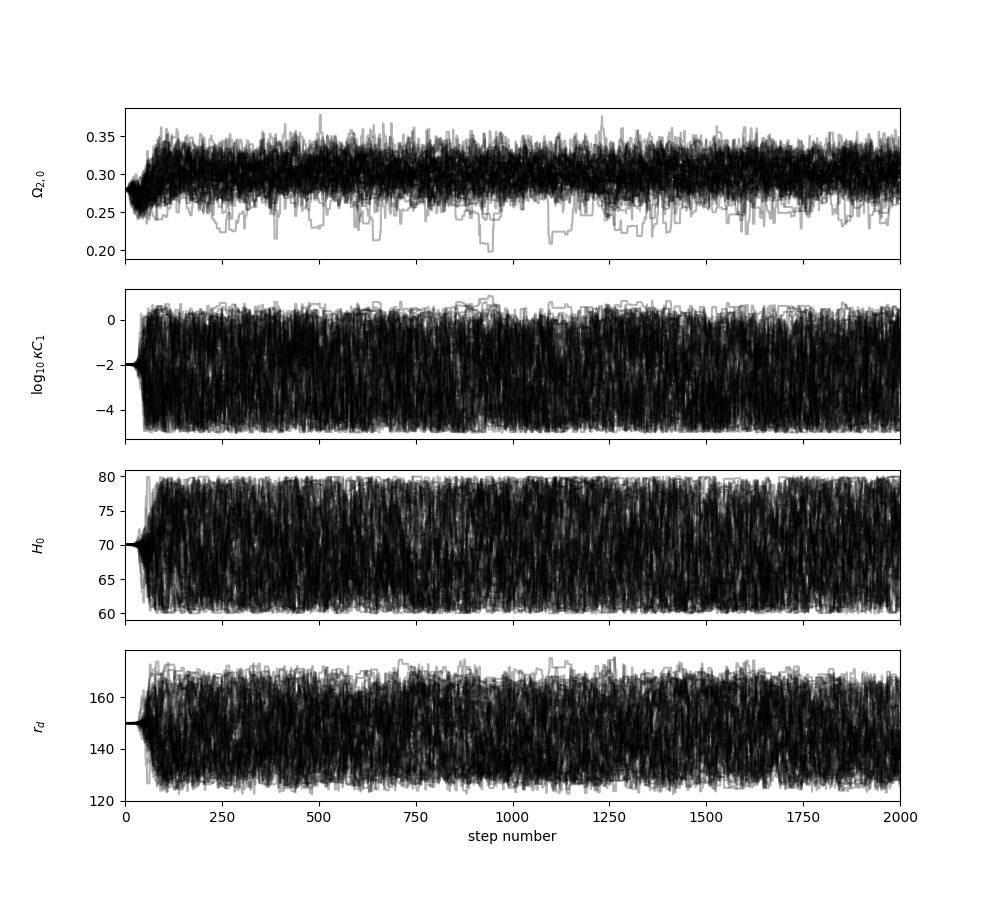
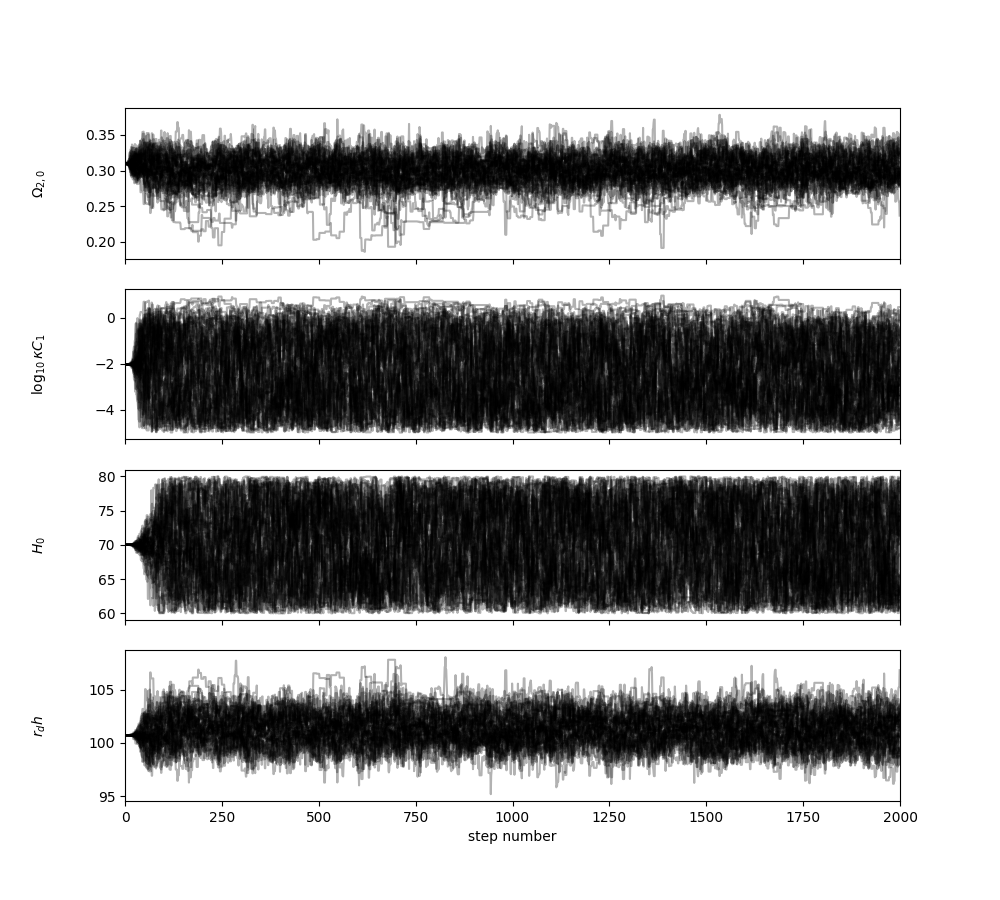
BAO use rdh

diff --git a/BAO/result.py b/BAO/result.py
@@ -14,7 +14,7 @@ const_c = c.to('km/s').value
 H0 = 70.0
 O20 = 0.28
 log_kC1 = -5.0
-rd = 147.78
+rdh = 100
 
 # 从csv文件中读取数据
 file_path = "./BAO/BAO.csv"
@@ -84,7 +84,8 @@ class BAO:
         DH = self.D_H(z)
         return (z * DM ** 2 * DH) ** (1/3)
 
-def chi_square(log_kC1, O20, H0, rd):
+def chi_square(log_kC1, O20, H0, rdh):
+    rd = rdh / H0 * 100
     theory = BAO(log_kC1, O20, H0, rd)
     A, B, C = [0, 0, 0]
     for i in range(len(z_eff)):
@@ -98,13 +99,13 @@ def chi_square(log_kC1, O20, H0, rd):
     return A + B + C
 
 def lnlike(paras):
-    O20, log_kC1, H0, rd = paras
-    chi2 = chi_square(log_kC1, O20, H0, rd)
+    O20, log_kC1, H0, rdh = paras
+    chi2 = chi_square(log_kC1, O20, H0, rdh)
     return -0.5 * chi2
 
 def lnprior(paras):
-    O20, log_kC1, H0, rd = paras
-    if 0 < O20 < 0.5 and -5 < log_kC1 < 3 and 60 < H0 < 80 and 100 < rd < 200:
+    O20, log_kC1, H0, rdh = paras
+    if 0 < O20 < 0.5 and -5 < log_kC1 < 3 and 60 < H0 < 80 and 50 < rdh < 150:
         return 0.0
     return -np.inf
 
@@ -118,7 +119,7 @@ def lnprob(paras):
 def main():
     # 定义mcmc参量
     nll = lambda *args: -lnlike(*args)
-    initial = np.array([0.28, -2, 70, 150]) # expected best values
+    initial = np.array([0.28, -2, 70, 100]) # expected best values
     soln = scipy.optimize.minimize(nll, initial)
     pos = soln.x + 1e-4 * np.random.randn(50, 4)
     nwalkers, ndim = pos.shape
@@ -129,7 +130,7 @@ def main():
         sampler.run_mcmc(pos, 2000, progress = True)
 
     # mcmc结果图
-    labels = [r'$\Omega_{2,0}$', r'$\log_{10}\kappa C_1$', '$H_0$', '$r_d$']
+    labels = [r'$\Omega_{2,0}$', r'$\log_{10}\kappa C_1$', '$H_0$', '$r_dh$']
     flat_samples = sampler.get_chain(discard=100, flat=True)
     # 采用默认格式
     figure = corner.corner(flat_samples, levels=(0.6826,0.9544), labels=labels,
